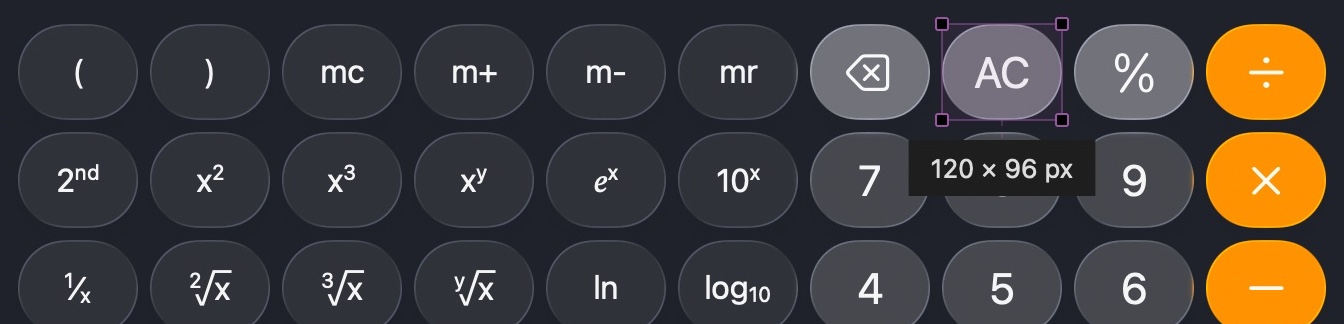
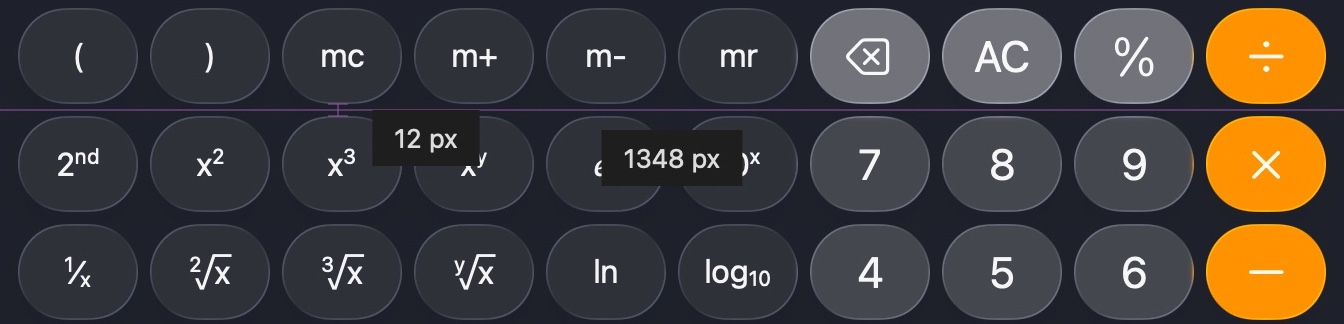
Show hover edge distances in the Find Dimensions example

diff --git a/website/dist/index.html b/website/dist/index.html
@@ -36,15 +36,15 @@
         <span class="requirements">Free & open source · macOS 14+ · Apple Silicon & Intel</span>
       </section>
       <figure class="app-demo">
-        <img src="/assets/find-dimensions.jpg" width="672" height="162" alt="Find Dimensions automatically detects Calculator’s clear button at 120 × 96 display pixels." />
-        <figcaption>Find Dimensions — drag around an object to detect its bounds.</figcaption>
+        <img src="/assets/find-dimensions.jpg" width="672" height="162" alt="Find Dimensions on hover: a 12 px gap between Calculator button rows, with horizontal and vertical edge-distance guides." />
+        <figcaption>Find Dimensions — hover to measure the space between elements.</figcaption>
       </figure>
       <figure class="app-demo">
         <img src="/assets/schnaps-screenshot.jpg" width="672" height="288" alt="Schnaps measuring Calculator: a 392 × 332 px selection beside a pinned 400 × 332 px area." />
         <figcaption>Measure Area — draw and pin exact measurements.</figcaption>
       </figure>
       <section class="features" aria-label="Measurement tools">
-        <article><h2>Find dimensions <kbd>⇧⌘F</kbd></h2><p>Move over an edge to see the distance. Drag around an object to find its bounds.</p></article>
+        <article><h2>Find dimensions <kbd>⇧⌘F</kbd></h2><p>Hover between elements to see horizontal and vertical distances.</p></article>
         <article><h2>Measure an area <kbd>⇧⌘M</kbd></h2><p>Draw an exact rectangle. Move it, resize it, or nudge it one pixel at a time.</p></article>
         <article><h2>Keep the details <kbd>Space</kbd></h2><p>Pin measurements while you work. Press Return to copy dimensions, or Shift-Return for CSS.</p></article>
       </section>

diff --git a/Scripts/export-screenshot.swift b/Scripts/export-screenshot.swift
@@ -10,7 +10,7 @@ let cropped = captured.cropping(to: CGRect(x: 0, y: 240, width: 1344, height: 57
 let jpeg = NSBitmapImageRep(cgImage: cropped).representation(using: .jpeg, properties: [.compressionFactor: 0.9])!
 try jpeg.write(to: root.appendingPathComponent("website/dist/assets/schnaps-screenshot.jpg"))
 print("Exported genuine Schnaps screenshot (1344 × 576).")
-// This source is already cropped to Calculator; preserve its genuine detected bounds.
+// This source is already cropped to Calculator; preserve its genuine hover-distance guides.
 let dimensions = try Data(contentsOf: root.appendingPathComponent("website/media-source/find-dimensions.jpg"))
 try dimensions.write(to: root.appendingPathComponent("website/dist/assets/find-dimensions.jpg"))
 print("Exported genuine Find Dimensions screenshot (1344 × 324).")
